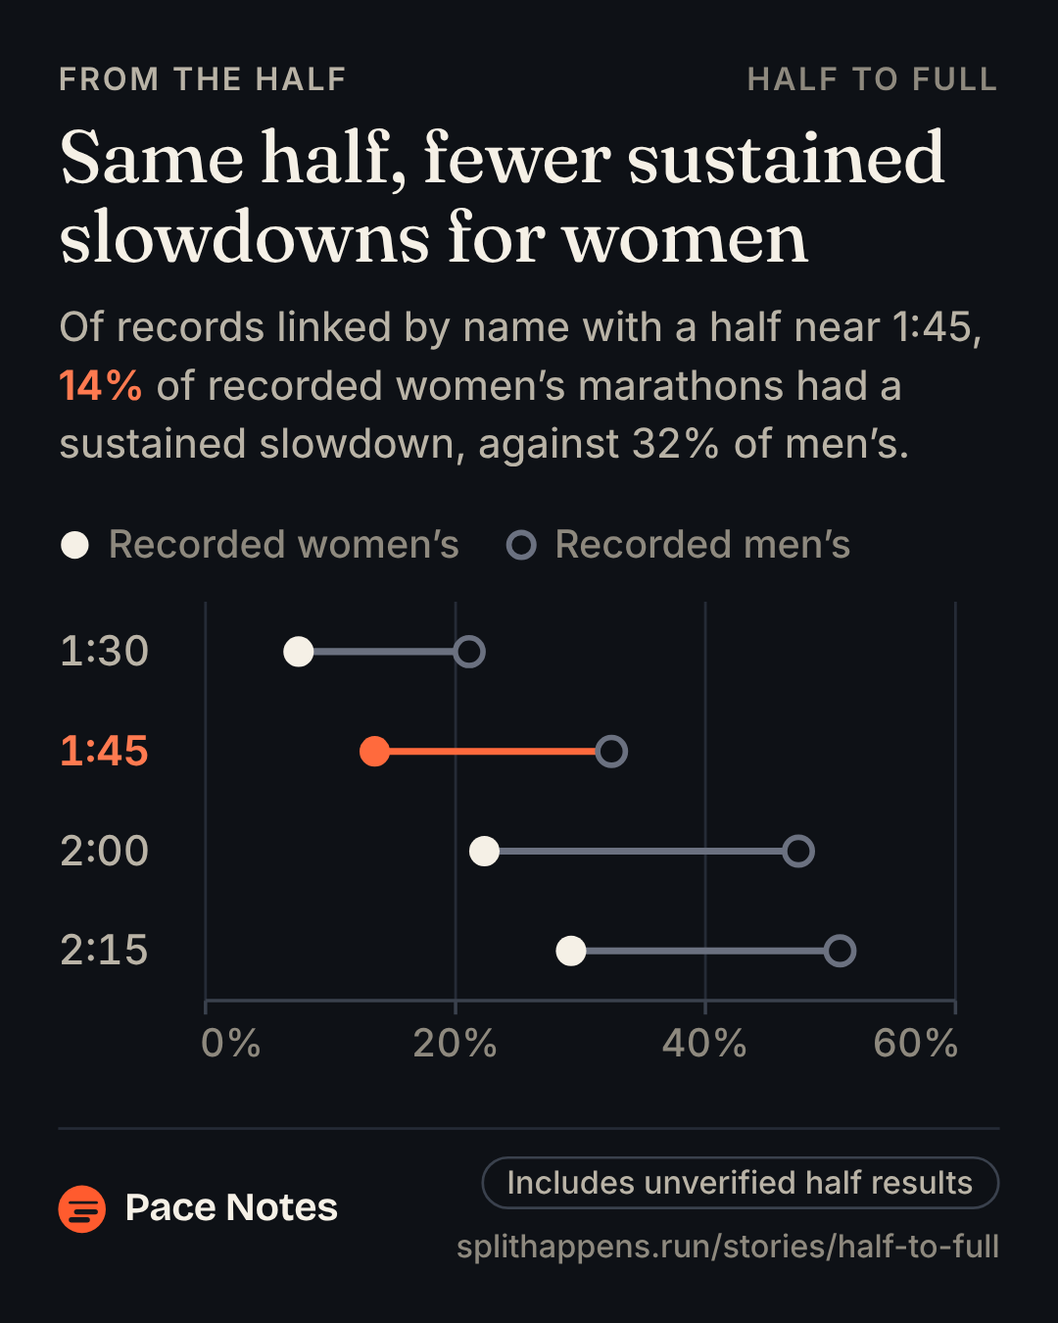
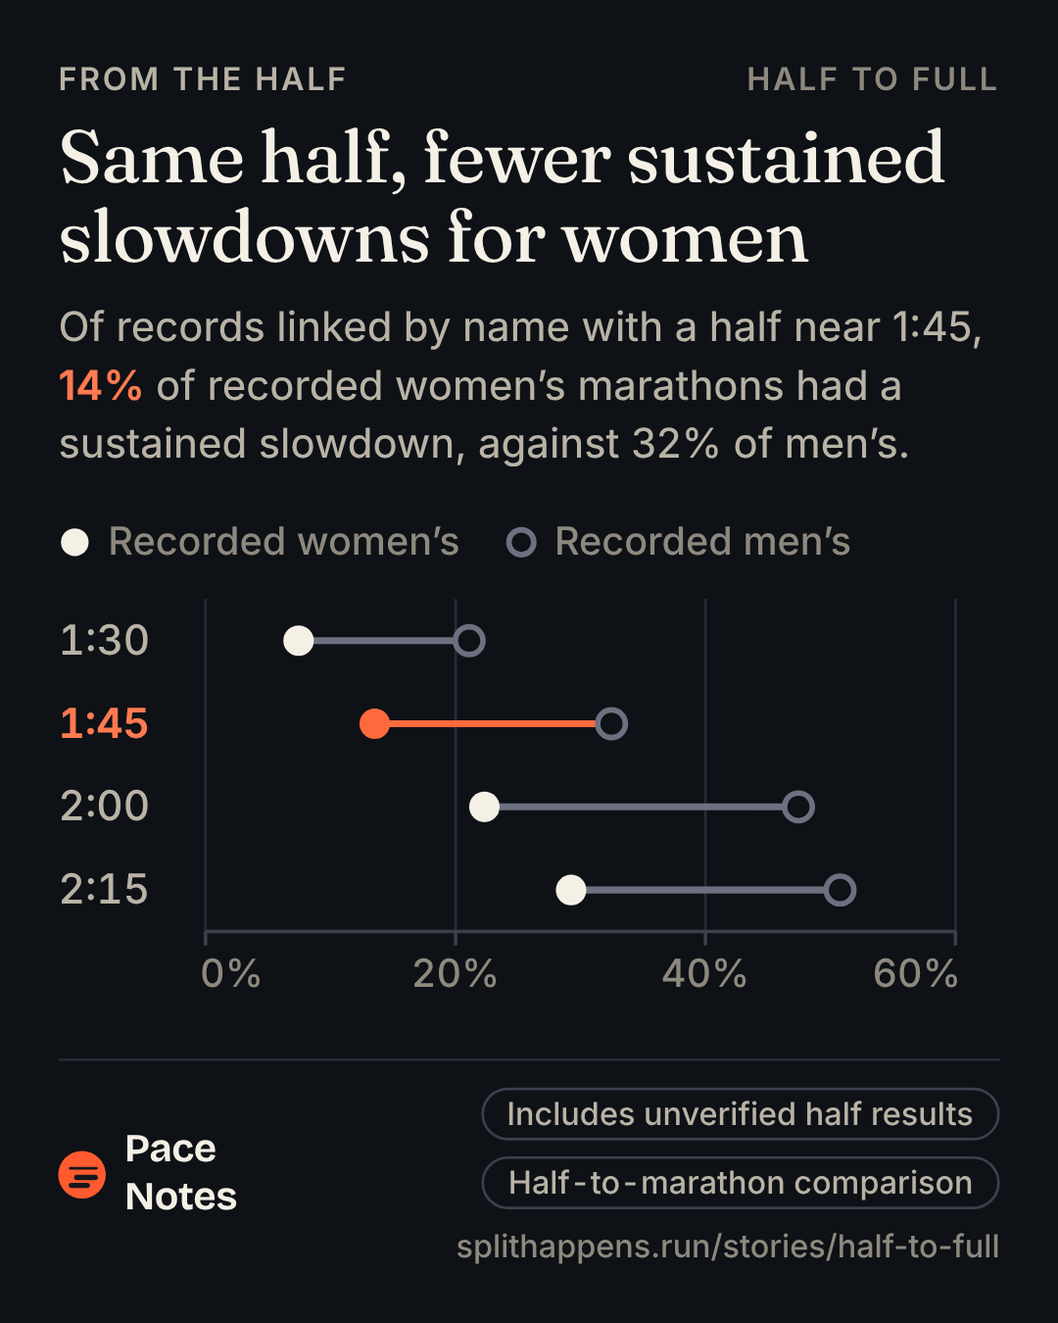
Label each half-to-marathon pair a comparison between distances; record the owner's producer answers (#90)
* Label each half-to-marathon pair a comparison between distances

The owner's decision of November 5, 2026: "Half-to-marathon pairs. Keep them,
but label each one as a comparison between distances. Do not put halves and
marathons into the same statistic."

- DistanceTag ("Half-to-marathon comparison") beside the scope chip on every
  linked surface (the half story, the predictor's half panel, the goal pages'
  half line), inside every reading repeated as a link that shows a figure
  (chapter 11 rows, /stories' half row, next cards, /half's night card), beside
  who holds pace's stated half reading, and in linked share cards' footers.
- /methodology#half-linking says each pair is a comparison between distances
  and that no statistic pools half and marathon finishes.
- verify-half --html checks every placement, its words and that a half-only
  surface carries none.
- Docs: the owner's decision and the producer answers (measured against
  master-20261103b), the handoff's state after #89, and merge-day dates.

Claude-Session: https://claude.ai/code/session_01WcW4bqd5kAAfXNmRYa36hX

* Distance label: its own module, and the story dek's pills on a row of their own

DistanceTag moves to components/tools/DistanceTag.tsx: in EvidenceTag.tsx it
put the predictor's first-load script 27 bytes over its S8 limit (the
predictor draws the label only in its lazily loaded half panel). The half
story's dek sets its two pills in a wrapping row with a 20 px gap, so each
[…]

diff --git a/components/methods/MethodsHalf.tsx b/components/methods/MethodsHalf.tsx
@@ -2,6 +2,7 @@ import { UnitLink as Link } from '@/components/UnitsProvider';
 import { halfLinkEditions, halfPin, halfStamps, readHalf } from '@/lib/half-server';
 import type { HalfBatteryId, HalfLinked, HalfManifest } from '@/lib/half-types';
 import { halfCardWords } from '@/lib/charts/text/half';
+import { DISTANCE_LABEL } from '@/components/tools/DistanceTag';
 import { FLAGSHIP_CLAUSES, flagshipFailures, flagshipGuard, halfCitiesFrom, halfExtraFrom, womenBandsPublished } from '@/lib/nuggets/half';
 import { STORIES, halfManifest, storyHref } from '@/lib/stories';
 import { floorHM } from '@/lib/tools/half-to-full';
@@ -182,7 +183,7 @@ export function HalfDataTopics() {
 
     <Topic id="half-linking" title="Half and marathon records linked by name">
       <p>A half record and a marathon record are linked when the producer’s person IDs give them the same person: its link build groups records by sorted name tokens and recorded sex, and joins them on age, nationality and finish-time evidence, its own unions included. Only {tierWords} count, for names with at most {rules.ns_keys_max} age keys per name and recorded sex; records the link build attached without an age or a sex never pair, and halves loaded after the link build cannot pair.{linkEditions.length ? ` ${capital(linkEditions.join(', and '))}${linkEditions.length > 1 ? ',' : ''} ${partial + retimed > 1 ? 'supply' : 'supplies'} no linked half, though ${partial + retimed > 1 ? 'their halves still count' : 'its halves still count'} in the same-date rule below.` : ''} Both sides join on canonical record IDs: the marathon side is the adopted release’s eligible finish, read from the public runner records.</p>
-      <p>Each eligible marathon is paired with the nearest earlier half of a record linked to it, {rules.window_days[0]} to {rules.window_days[1]} days before, one pair per linked record and marathon. A half on the same date as another half of the record, or on the date of one of its marathons, is left out, as are editions whose date is in doubt. That gives {n(linked.set.pairs)} pairs from {n(linked.set.people)} linked identities: {n(linked.set.marathon_editions)} marathon editions in {n(linked.set.marathon_cities)} cities and {n(linked.set.half_editions)} half editions.{sb ? ` Some halves come before more than one marathon: ${n(sb.halves_in_two_or_more_pairs)} halves are in two or more pairs, and ${n(sb.pairs_with_a_close_marathon)} pairs have another eligible marathon of the record within ${CLOSE_MARATHON_DAYS} days. Neither is left out; the weighting with one pair per record checks them.` : ''}</p>
+      <p>Each eligible marathon is paired with the nearest earlier half of a record linked to it, {rules.window_days[0]} to {rules.window_days[1]} days before, one pair per linked record and marathon. A half on the same date as another half of the record, or on the date of one of its marathons, is left out, as are editions whose date is in doubt. That gives {n(linked.set.pairs)} pairs from {n(linked.set.people)} linked identities: {n(linked.set.marathon_editions)} marathon editions in {n(linked.set.marathon_cities)} cities and {n(linked.set.half_editions)} half editions.{sb ? ` Some halves come before more than one marathon: ${n(sb.halves_in_two_or_more_pairs)} halves are in two or more pairs, and ${n(sb.pairs_with_a_close_marathon)} pairs have another eligible marathon of the record within ${CLOSE_MARATHON_DAYS} days. Neither is left out; the weighting with one pair per record checks them.` : ''} Each pair compares a half with a marathon after it, a comparison between distances, so every figure of pairs carries the label “{DISTANCE_LABEL}”, and no statistic on these pages pools half and marathon finishes.</p>
       <p>Some links may join two different people, and some records of one person stay apart. The producer’s link build accepted or rejected some merges on how a half time fits a marathon time, so the tails of the multiple partly reflect the link build, and the times alone cannot show how many links are false.{review && rounds.length ? <> The producer reports a hand review of each round of its link build (its claim, in <a href="#downloads-half">{review.source}</a>): in its last {lowerWord(rounds.length)} rounds, {noFalse ? `none of the ${n(review.n_per_cell)} rare-name and ${n(review.n_per_cell)} common-name merged persons it checked joined two people (none of ${n(review.n_per_cell)} still allows up to about ${pct0(review.zero_of_n_upper95)})` : `${and(rounds.map((r) => `${pctText(r.rare_false_merge)} of the rare-name and ${pctText(r.common_false_merge)} of the common-name merged persons it checked`))} joined two people`}, and it missed {and(rounds.map((r) => pctText(r.rare_missed)))} of the rare-name links it checked.</> : null} How many marathon finishers can be linked depends on how each source publishes age{cov.length >= 2 ? `: the share of eligible marathon finishes linked to a record with a usable half runs from ${pctFit(covHi.share)} in ${covHi.city} to ${pctFit(covLo.share)} in ${covLo.city}` : ''}. So no page shows how many marathoners run halves or compares cities by their linked share. Every count is a pair of records, never a verified person, and the pairs describe what went together, not why.</p>
     </Topic>
   </>;

diff --git a/app/styles/components/badge.css b/app/styles/components/badge.css
@@ -24,18 +24,33 @@ a.evidence-badge:focus-visible { outline: 2px solid var(--focus); outline-offset
    linked half figure's dek. It qualifies the badge, so it is quieter than a control: --ink-2 text, a --rule-strong
    1 px edge, no fill. As a link it has a 44 px hit area drawn by ::after, as a badge's; on a narrow screen it wraps
    inside the column rather than run past it (195 CSS px at 200% zoom). */
-.scope-chip {
+/* The distance label (DistanceTag) is drawn as the scope chip: "Half-to-marathon comparison" on every linked half
+   figure (owner decision, November 5, 2026). */
+.scope-chip, .distance-chip {
   display: inline-flex; align-items: center; max-width: 100%; min-height: 24px; padding: 2px 10px;
   font-family: var(--sans); font-size: var(--t-label); font-weight: 500; line-height: 1.3; letter-spacing: 0; text-transform: none;
   color: var(--ink-2); background: none; border: 1px solid var(--rule-strong); border-radius: var(--r-pill);
   white-space: normal; overflow-wrap: anywhere; text-align: left;
 }
 /* After a dek's sentence (the half story's hero): a little air above it when it wraps to a line of its own. */
-.reading-dek .scope-chip { margin-top: 6px; vertical-align: middle; }
-a.scope-chip { position: relative; text-decoration: none; }
-a.scope-chip::after { content: ''; position: absolute; left: -2px; right: -2px; top: 50%; height: 44px; min-height: 100%; transform: translateY(-50%); }
-a.scope-chip:hover { color: var(--ink); border-color: var(--ink-2); text-decoration: underline; text-underline-offset: .2em; }
-a.scope-chip:focus-visible { outline: 2px solid var(--focus); outline-offset: 2px; }
+.reading-dek .scope-chip, .reading-dek .distance-chip { margin-top: 6px; vertical-align: middle; }
+a.scope-chip, a.distance-chip { position: relative; text-decoration: none; }
+a.scope-chip::after, a.distance-chip::after { content: ''; position: absolute; left: -2px; right: -2px; top: 50%; height: 44px; min-height: 100%; transform: translateY(-50%); }
+a.scope-chip:hover, a.distance-chip:hover { color: var(--ink); border-color: var(--ink-2); text-decoration: underline; text-underline-offset: .2em; }
+a.scope-chip:focus-visible, a.distance-chip:focus-visible { outline: 2px solid var(--focus); outline-offset: 2px; }
 @media (forced-colors: active) {
-  .scope-chip { border-color: CanvasText; }
+  .scope-chip, .distance-chip { border-color: CanvasText; }
 }
+
+/* The distance label repeated inside a reading that is already a link (a contents row, a next card): plain words in
+   the same pill, wrapping under the key when the row is narrow. */
+.page-reading.has-distance { flex-wrap: wrap; }
+.next-card-distance { margin-top: 2px; }
+.story-way-label { display: block; margin-top: 10px; }
+/* The label's longest word is "comparison", so it wraps at its spaces and hyphens, never inside a word (a contents row
+   at 195 CSS px broke "comparis-on"). */
+.distance-chip { overflow-wrap: normal; }
+/* The half story's dek ends on its two pills, on a line of their own: the row gap keeps each pill's 44 px hit area
+   clear of the other's when they wrap (layout lint, November 5, 2026). */
+.reading-dek-tags { display: flex; flex-wrap: wrap; align-items: center; gap: 20px var(--s-2); margin-top: 10px; }
+.reading-dek-tags .scope-chip, .reading-dek-tags .distance-chip { margin-top: 0; }

diff --git a/lib/seo-routes.ts b/lib/seo-routes.ts
@@ -135,11 +135,16 @@ export const CONTENT_DATES: Readonly<Record<string, string>> = {
   // (d5a7daa5) and whose lastmod would not move with their data's as_of, found by diffing the two builds' visible text:
   // /analyses (a starting-pace figure in its list), /half and the half story (the pairs bound to the new marathon release;
   // the half snapshot's own as_of is unchanged). Every other changed page takes its rebuilt data's date (November 4).
-  '/': '2026-10-31',
-  '/research': '2026-10-31',
+  // November 5 again (the merge day of feat/cross-distance-label, the owner's decision of that day to label each
+  // half-to-marathon pair a comparison between distances): the pages whose built text that branch changes against main
+  // (b35789b8), found by diffing the two builds' visible text: the home guide's and /research's chapter 11 row, /stories'
+  // half row, /half's night card, the half story's dek, who holds pace's way into it, /methodology#half-linking and the
+  // five goal pages (HALF_TEXT_REWRITTEN below). /report and /runners repeat the chapter 11 next card; they are noindex.
+  '/': '2026-11-05',
+  '/research': '2026-11-05',
   '/about': '2026-10-30',
-  '/methodology': '2026-10-31',
-  '/stories': '2026-10-31',
+  '/methodology': '2026-11-05',
+  '/stories': '2026-11-05',
   '/tools': '2026-10-19',
   '/tools/pace-calculator': '2026-10-19',
   '/analyses': '2026-11-05',
@@ -152,7 +157,7 @@ export const CONTENT_DATES: Readonly<Record<string, string>> = {
   '/stories/places': '2026-10-19',
   '/stories/final-kick': '2026-10-19',
   '/stories/courses': '2026-10-19',
-  '/stories/who-holds-pace': '2026-10-31',
+  '/stories/who-holds-pace': '2026-11-05',
   '/stories/race-morning': '2026-10-19',
   '/half': '2026-11-05',
   '/stories/half-to-full': '2026-11-05',
@@ -273,7 +278,7 @@ export const HALF_TEXT_WRITTEN = '2026-10-30';
 export const HALF_TEXT_REWRITTEN: Readonly<Record<string, string>> = {
   '/tools/predictor': '2026-10-31',
   '/tools/half-marathon-pace-chart': '2026-10-31',
-  ...Object.fromEntries(GOAL_PAGE_MINUTES.map((minute) => [goalPagePath(minute), '2026-10-31'])),
+  ...Object.fromEntries(GOAL_PAGE_MINUTES.map((minute) => [goalPagePath(minute), '2026-11-05'])),
 };
 
 /** HALF_TEXT_WRITTEN (or the page's later rewrite, HALF_TEXT_REWRITTEN) in a build with the half data, else undefined. */

diff --git a/components/NextCard.tsx b/components/NextCard.tsx
@@ -3,6 +3,7 @@ import { joinRanges } from '@/components/ui/keepTogether';
 import BigNumber from './ui/BigNumber';
 import MarkerBadge from './ui/MarkerBadge';
 import ChapterLink from './ChapterLink';
+import { DistanceTag } from './tools/DistanceTag';
 import { UnitLink as Link } from './UnitsProvider';
 import { CHAPTERS, chapterHref, chapterNumber, type ChapterReading, type Next } from '@/lib/chapters';
 
@@ -21,7 +22,8 @@ export default function NextCard({ next, reading }: { next: Next; reading?: Chap
   const key = reading ? (reading.key ?? (opensChapter ? chapter.key : undefined)) : undefined;
   // A half reading (records linked by name) repeated as a link to its own page, which carries the scope chip: marked for
   // verify-half, which checks the card links to that page and holds no other half figure.
-  const half = reading && (opensChapter ? chapter.lead : page.nugget).startsWith('half.') ? { 'data-half-link': 'linked' } : {};
+  const isHalf = !!reading && (opensChapter ? chapter.lead : page.nugget).startsWith('half.');
+  const half = isHalf ? { 'data-half-link': 'linked' } : {};
   return (
     <ChapterLink href={page.href} className="next-card night" {...half}>
       <span className="next-card-kicker t-kicker">
@@ -34,6 +36,7 @@ export default function NextCard({ next, reading }: { next: Next; reading?: Chap
         <span className="next-card-reading">
           <BigNumber value={reading.value} unit={reading.unit} sr={reading.sr} size="m" tone="night" />
           {key ? <span className="next-card-key">{joinRanges(key)}</span> : null}
+          {isHalf ? <DistanceTag link={false} className="next-card-distance" /> : null}
         </span>
       ) : null}
       <span className="next-card-go" aria-hidden="true"><Arrow /></span>

diff --git a/components/ui/ChapterList.tsx b/components/ui/ChapterList.tsx
@@ -3,6 +3,7 @@ import { joinRanges } from '@/components/ui/keepTogether';
 import MarkerBadge from './MarkerBadge';
 import Arrow from './Arrow';
 import ChapterLink from '@/components/ChapterLink';
+import { DistanceTag } from '@/components/tools/DistanceTag';
 import { CHAPTERS, chapterHref, livePages, partLabel, type Chapter, type ChapterPage, type PageKind, type ReadingOf } from '@/lib/chapters';
 
 /**
@@ -48,6 +49,9 @@ function Reading({ readingOf, id, fallbackKey, size, href }: { readingOf?: Readi
     <>
       <BigNumber value={reading.value} unit={reading.unit} sr={reading.sr} size={size} />
       {key ? <span className="chapter-key"><KeyText text={key} /></span> : null}
+      {/* A half reading compares a half with a later marathon: it says so where it is repeated (owner decision, November
+          5, 2026), as plain words, since the row is already a link. */}
+      {id.startsWith('half.') ? <DistanceTag link={false} className="chapter-distance" /> : null}
     </>
   );
   // A half reading (records linked by name) is shown only as a link to the page that carries its scope chip, as every
@@ -61,9 +65,10 @@ function PageReading({ readingOf, page }: { readingOf?: ReadingOf; page: Chapter
   const reading = readingOf?.(page.nugget);
   if (!reading?.key) return null;
   return (
-    <span className="page-reading">
+    <span className={`page-reading${page.nugget.startsWith('half.') ? ' has-distance' : ''}`}>
       <BigNumber value={reading.value} unit={reading.unit} sr={reading.sr} size="s" />
       <span className="page-reading-key"><KeyText text={reading.key} /></span>
+      {page.nugget.startsWith('half.') ? <DistanceTag link={false} className="page-reading-distance" /> : null}
     </span>
   );
 }

diff --git a/lib/charts/text/half.ts b/lib/charts/text/half.ts
@@ -22,6 +22,9 @@ export type HalfDocs = { field: HalfField; women: HalfWomen; linked: HalfLinked 
 export const HALF_CARD_KICKER = 'From the half';
 /** The scope chip a linked card prints in its footer (the same words as ScopeTag, components/tools/EvidenceTag.tsx). */
 export const HALF_CARD_CHIP = 'Includes unverified half results';
+/** The distance label a linked card prints beside the chip (the same words as DistanceTag; owner decision, November 5,
+ *  2026: each half-to-marathon pair is labelled a comparison between distances). */
+export const HALF_CARD_DISTANCE = 'Half-to-marathon comparison';
 
 type V = Record<string, number | string>;
 type Said = { guard: boolean; title: string; headline: string; titleFallback: string; fallback: string };
@@ -141,6 +144,8 @@ export type HalfCardWords = {
   page: HalfCardText['page'];
   /** The footer's chip (a card of records linked by name), or null. */
   chip: string | null;
+  /** The footer's distance label (a card of records linked by name), or null. */
+  distance: string | null;
   /** The plot's key in the order its marks run (HalfCardText `key`), or null for the form's own. */
   key: KeyItem[] | null;
 };
@@ -155,6 +160,7 @@ export function halfCardWords(card: HalfCard, docs: HalfDocs): HalfCardWords {
   return {
     slug: card.slug, title: typo(said.guard ? said.title : said.titleFallback), headline, plain: headline.replace(/\*/g, ''), fallback,
     guard: said.guard, kicker: HALF_CARD_KICKER, theme: text.theme, page: text.page, chip: card.scope === 'linked' ? HALF_CARD_CHIP : null,
+    distance: card.scope === 'linked' ? HALF_CARD_DISTANCE : null,
     key: text.key ? text.key(card.plot) : null,
   };
 }

diff --git a/components/tools/DistanceTag.tsx b/components/tools/DistanceTag.tsx
@@ -1,0 +1,21 @@
+import { UnitLink as Link } from '@/components/UnitsProvider';
+
+// A module of its own, apart from EvidenceTag.tsx, so the pages that import the evidence badges in their first-load
+// JavaScript (the predictor's) do not carry the label: the predictor draws it only in its lazily loaded half panel.
+
+/**
+ * The distance label's words (owner decision, November 5, 2026: "Half-to-marathon pairs. Keep them, but label each one
+ * as a comparison between distances. Do not put halves and marathons into the same statistic."; verify-half checks them).
+ */
+export const DISTANCE_LABEL = 'Half-to-marathon comparison';
+
+/**
+ * The distance label: the same quiet pill as the scope chip, saying a figure compares a half with a later marathon of
+ * records linked by name, never one statistic of both distances. On every linked surface once, beside the scope chip,
+ * and inside every reading repeated as a link (`data-half-link`, as plain words: a link holds no link); a half-only figure
+ * carries none. It links to /methodology#half-linking, which says how the pairs are made.
+ */
+export function DistanceTag({ link = true, className: extra }: { link?: boolean; className?: string }) {
+  const className = `distance-chip${extra ? ` ${extra}` : ''}`;
+  return link ? <Link href="/methodology#half-linking" className={className}>{DISTANCE_LABEL}</Link> : <span className={className}>{DISTANCE_LABEL}</span>;
+}

diff --git a/components/story/bodies/HalfToFullBody.tsx b/components/story/bodies/HalfToFullBody.tsx
@@ -8,6 +8,7 @@ import { NOT_A_PREDICTION, floorHM, paceGap, readoutMark, windowOverDouble } fro
 import type { UnitSystem } from '@/lib/units';
 import { STORIES } from '@/lib/stories';
 import { ScopeTag } from '@/components/tools/EvidenceTag';
+import { DistanceTag } from '@/components/tools/DistanceTag';
 import Ruler from '@/components/viz/Ruler';
 import LineProfile from '@/components/viz/LineProfile';
 import { crowdedFlipLabels } from '@/components/viz/grid-crowded';
@@ -199,7 +200,7 @@ export default function HalfToFullBody() {
         // The dek says what the page pairs and where to look, and states no reading, so it reads the same under the
         // plain H1 (review, October 30, 2026: the old verbless dek was written to qualify the reading H1).
         // "Find your half below." is said only with JavaScript: a static page's needle cannot move (round 5 review).
-        dek={<>{rich(deks.hero, { linked: true })}<span className="js-only"> {deks.find}</span> <ScopeTag /></>}
+        dek={<>{rich(deks.hero, { linked: true })}<span className="js-only"> {deks.find}</span> <span className="reading-dek-tags"><ScopeTag /><DistanceTag /></span></>}
         figure={figure ? { value: figure.value, unit: figure.unit, sr: figure.sr } : undefined} unitLine={figure ? extra.key : undefined}
         instrument={extra.guard ? ruler : undefined} />
 

diff --git a/components/story/bodies/DemographicsBody.tsx b/components/story/bodies/DemographicsBody.tsx
@@ -8,6 +8,7 @@ import { MARATHON_KM } from '@/lib/units';
 import LineProfile from '@/components/viz/LineProfile';
 import Ruler from '@/components/viz/Ruler';
 import Values from '@/components/ui/Values';
+import { DistanceTag } from '@/components/tools/DistanceTag';
 import ArrowTail from '@/components/ui/ArrowTail';
 import PairBars from '../charts/PairBars';
 import { HalfWay, halfStoryLive } from '@/components/half/HalfWays';
@@ -99,6 +100,7 @@ export default function DemographicsBody() {
         {halfSaid ? (
           <p className="story-way arrow-line" data-half-said="stated">For <Link href="/methodology#half-linking" className="term-link">records linked by name</Link>:{' '}
             <Link href="/stories/half-to-full#women-men" data-half-link="linked"><ArrowTail text="recorded women’s marathons had fewer sustained slowdowns after a half marathon in the same time, too" /></Link>
+            <span className="story-way-label"><DistanceTag link={false} /></span>
           </p>
         ) : <HalfWay className="story-way" href="/stories/half-to-full#women-men" reading>Recorded women and men after a half marathon in the same time</HalfWay>}
       </Beat>

diff --git a/components/half/HalfBefore.tsx b/components/half/HalfBefore.tsx
@@ -1,5 +1,6 @@
 import { UnitLink as Link } from '@/components/UnitsProvider';
 import { EvidenceTag, ScopeTag } from '@/components/tools/EvidenceTag';
+import { DistanceTag } from '@/components/tools/DistanceTag';
 import ArrowTail from '@/components/ui/ArrowTail';
 import { withEm } from '@/components/ui/withEm';
 import type { HalfGoal } from '@/lib/half-types';
@@ -18,7 +19,7 @@ export default function HalfBefore({ goal }: { goal: HalfGoal }) {
   const lines = goalLines(goal);
   return (
     <section className="tool-panel goal-pace-half" id="goal-pace-half" data-half-scope="linked" aria-labelledby="goal-pace-half-title">
-      <p className="goal-pace-half-tags"><EvidenceTag kind="data" /><ScopeTag /></p>
+      <p className="goal-pace-half-tags"><EvidenceTag kind="data" /><ScopeTag /><DistanceTag /></p>
       <p className="goal-pace-half-kicker">The half marathon before</p>
       <h2 className="tool-nugget-text" id="goal-pace-half-title">{withEm(lines.lead)}</h2>
       <p className="tool-panel-meta">Half and marathon <Link href="/methodology#half-linking" className="term-link">records linked by name</Link>, the half 3 to 16 weeks before.</p>

diff --git a/components/tools/LinkedPanel.tsx b/components/tools/LinkedPanel.tsx
@@ -2,6 +2,7 @@
 
 import { useEffect, useRef, useState, type ReactNode } from 'react';
 import { EvidenceTag, ScopeTag, SlowdownTerm } from '@/components/tools/EvidenceTag';
+import { DistanceTag } from '@/components/tools/DistanceTag';
 import { UnitLink as Link } from '@/components/UnitsProvider';
 import ArrowTail from '@/components/ui/ArrowTail';
 import { withEm } from '@/components/ui/withEm';
@@ -129,7 +130,7 @@ export default function LinkedPanel({ sha, seconds, group, onGroup, speakFirst =
   }, [group]);
   return (
     <section className="tool-panel predictor-linked" id="predictor-linked" data-half-scope="linked" aria-labelledby="predictor-linked-title" ref={panel} tabIndex={-1}>
-      <p className="predictor-linked-tags"><EvidenceTag kind="data" /><ScopeTag /></p>
+      <p className="predictor-linked-tags"><EvidenceTag kind="data" /><ScopeTag /><DistanceTag /></p>
       <p className="sr-only" aria-live="polite">{announce}</p>
       <DataState error={error} loading={!error && !tool}>
         {tool && win ? (

diff --git a/components/half/HalfNext.tsx b/components/half/HalfNext.tsx
@@ -1,5 +1,6 @@
 import Arrow from '@/components/ui/Arrow';
 import BigNumber from '@/components/ui/BigNumber';
+import { DistanceTag } from '@/components/tools/DistanceTag';
 import { joinRanges } from '@/components/ui/keepTogether';
 import { UnitLink as Link } from '@/components/UnitsProvider';
 import type { ChapterReading } from '@/lib/chapters';
@@ -19,6 +20,7 @@ export default function HalfNext({ href, kicker, title, reading }: { href: strin
         <span className="next-card-reading">
           <BigNumber value={reading.value} unit={reading.unit} sr={reading.sr} size="m" tone="night" />
           {reading.key ? <span className="next-card-key">{joinRanges(reading.key)}</span> : null}
+          <DistanceTag link={false} className="next-card-distance" />
         </span>
       ) : null}
       <span className="next-card-go" aria-hidden="true"><Arrow /></span>
